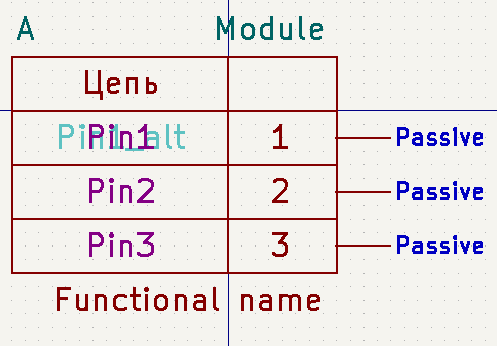
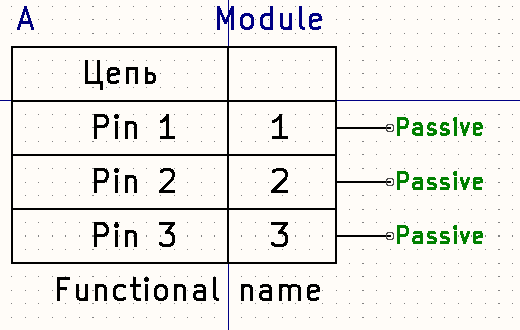
Update image. Fix position for pins (connetor and modules)

Changed region(s): [[0.0, 0.0, 1.0, 0.9394], [0.1509, 0.6667, 0.3622, 0.7576], [0.5131, 0.6667, 0.6036, 0.7576]]

diff --git a/tools/connector_gen.js b/tools/connector_gen.js
@@ -2,6 +2,7 @@ const pin_regex = new RegExp('^\[\\t\\s\]*(\\S+)\[\\t\\s\]+(\\S+)\[\\t\\s\]*(PI|
 const func_name_regex = new RegExp('^\[\\t\\s\]*>\[\\t\\s\]*(\\S+)$');
 const y_init = -2.54
 const y_step = -5.08
+const pin_length = 5.08
 const pin_types ={"PO": "power_out", "PI":"power_in", "IO": "bidirectional", "I": "input", "O": "output"}
 		
 /*!
@@ -69,8 +70,8 @@ function symbol_property_gen() {
 	if(document.getElementById("xp_ref").checked) ref_text="XP"
 	else ref_text="XS"
 	
-	sym_prop = [{prop: "Reference", value: ref_text, pos_x: -19.05, pos_y: 7.62, font: 2},
-	{prop: "Value", value: document.getElementById("symbol_name").value, pos_x: -2.54, pos_y: 7.62, font: 2},
+	sym_prop = [{prop: "Reference", value: ref_text, pos_x: -17.78, pos_y: 7.62, font: 2},
+	{prop: "Value", value: document.getElementById("symbol_name").value, pos_x: 2.54, pos_y: 7.62, font: 2},
 	{prop: "Footprint", value: "", pos_x: 20.32, pos_y: 7.62, font: 2},
 	{prop: "Datasheet", value: document.getElementById("symbol_ds").value, pos_x: -2.54, pos_y: 21.59, font: 1.27},
 	{prop: "ki_locked", value: "", pos_x: 0, pos_y: 0, font: 1.27},
@@ -137,24 +138,24 @@ function process(){
 					first_grp_pin[pin_name] = pos_y;
 				}else {
 					temp_y = first_grp_pin[pin_name].toFixed(3)
-					symbol_pins += `(pin  ${item["type"]} line (at 15.24 ${temp_y} 180) (length 5.08) hide`
-					symbol_pins += `(name "${item["label"]}" (effects (font (size 1.27 1.27)))) `
-					symbol_pins += `(number "${item["index"]}" (effects (font (size 1.27 1.27)))))\r\n`
+					symbol_pins += `(pin  ${item["type"]} line (at 15.1892 ${temp_y} 180) (length ${pin_length}) hide`
+					symbol_pins += `(name "${item["label"]}" (effects (font (size 2 2)))) `
+					symbol_pins += `(number "${item["index"]}" (effects (font (size 2 2)))))\r\n`
 					return;		
 				}
 			}
 			symbol_pins += `(text "${item["index"]}" (at 4.826 ${pos_y.toFixed(3)} 0)(effects (font (size 2 2))))\r\n`
-			symbol_pins += `(text "${item["label"]}" (at -8.89 ${pos_y.toFixed(3)} 0)(effects (font (size 2 2))))\r\n`
-			symbol_pins += `(pin ${item["type"]} line (at 15.24 ${pos_y.toFixed(3)} 180) (length 5.08) `
-			symbol_pins += `(name "${item["label"]}" (effects (font (size 1.27 1.27)))) `
-			symbol_pins += `(number "${item["index"]}" (effects (font (size 1.27 1.27)))))\r\n`		
+			symbol_pins += `(text "${item["label"]}" (at -10.16 ${pos_y.toFixed(3)} 0)(effects (font (size 2 2))))\r\n`
+			symbol_pins += `(pin ${item["type"]} line (at 15.1892 ${pos_y.toFixed(3)} 180) (length ${pin_length}) `
+			symbol_pins += `(name "${item["label"]}" (effects (font (size 2 2)))) `
+			symbol_pins += `(number "${item["index"]}" (effects (font (size 2 2)))))\r\n`		
 			pos_y += y_step;
 			show_pin_count++;				
 		});
 		
 		symbol_pins += "(text \"Цепь\" (at -10.16 2.54 0)(effects (font (size 2 2))))\r\n"
 		if(pins["fname"] != "") {
-			symbol_pins += `(text "${pins["fname"]}" (at -3.81 ${show_pin_count*y_step+y_init} 0)(effects (font (size 2.0066 2.0066))))\r\n`
+			symbol_pins += `(text "${pins["fname"]}" (at -5.08 ${show_pin_count*y_step+y_init} 0)(effects (font (size 2 2))))\r\n`
 		}
 		
 		/* Lines generation */
@@ -185,5 +186,6 @@ function save_file() {
 		a.href = window.URL.createObjectURL(new Blob([document.getElementById("output").value], {type: "text/plain"}));
 		a.download = `${document.getElementById("symbol_name").value}.kicad_sym`;
 		a.click();
+		alert("File is saved as ".concat(a.download))
 	}
 };

diff --git a/tools/module_gen.js b/tools/module_gen.js
@@ -2,6 +2,7 @@ const pin_regex = new RegExp('^\[\\t\\s\]*(\\S+)\[\\t\\s\]+(\\S+)\[\\t\\s\]*(PI|
 const func_name_regex = new RegExp('^\[\\t\\s\]*>\[\\t\\s\]*(\\S+)$');
 const y_init = -2.54
 const y_step = -5.08
+const pin_length = 5.08
 const pin_types ={"PO": "power_out", "PI":"power_in", "IO": "bidirectional", "I": "input", "O": "output"}
 		
 /*!
@@ -134,24 +135,24 @@ function process(){
 					first_grp_pin[pin_name] = pos_y;
 				}else {
 					temp_y = first_grp_pin[pin_name].toFixed(3)
-					symbol_pins += `(pin  ${item["type"]} line (at 15.24 ${temp_y} 180) (length 5.08) hide`
-					symbol_pins += `(name "${item["label"]}" (effects (font (size 1.27 1.27)))) `
-					symbol_pins += `(number "${item["index"]}" (effects (font (size 1.27 1.27)))))\r\n`
+					symbol_pins += `(pin  ${item["type"]} line (at 15.1892 ${temp_y} 180) (length ${pin_length}) hide`
+					symbol_pins += `(name "${item["label"]}" (effects (font (size 2 2)))) `
+					symbol_pins += `(number "${item["index"]}" (effects (font (size 2 2)))))\r\n`
 					return;		
 				}
 			}
 			symbol_pins += `(text "${item["index"]}" (at 4.826 ${pos_y.toFixed(3)} 0)(effects (font (size 2 2))))\r\n`
-			symbol_pins += `(text "${item["label"]}" (at -8.89 ${pos_y.toFixed(3)} 0)(effects (font (size 2 2))))\r\n`
-			symbol_pins += `(pin ${item["type"]} line (at 15.24 ${pos_y.toFixed(3)} 180) (length 5.08) `
-			symbol_pins += `(name "${item["label"]}" (effects (font (size 1.27 1.27)))) `
-			symbol_pins += `(number "${item["index"]}" (effects (font (size 1.27 1.27)))))\r\n`		
+			symbol_pins += `(text "${item["label"]}" (at -10.16 ${pos_y.toFixed(3)} 0)(effects (font (size 2 2))))\r\n`
+			symbol_pins += `(pin ${item["type"]} line (at 15.1892 ${pos_y.toFixed(3)} 180) (length ${pin_length}) `
+			symbol_pins += `(name "${item["label"]}" (effects (font (size 2 2)))) `
+			symbol_pins += `(number "${item["index"]}" (effects (font (size 2 2)))))\r\n`		
 			pos_y += y_step;
 			show_pin_count++;				
 		});
 		
 		symbol_pins += "(text \"Цепь\" (at -10.16 2.54 0)(effects (font (size 2 2))))\r\n"
 		if(pins["fname"] != "") {
-			symbol_pins += `(text "${pins["fname"]}" (at -3.81 ${show_pin_count*y_step+y_init} 0)(effects (font (size 2.0066 2.0066))))\r\n`
+			symbol_pins += `(text "${pins["fname"]}" (at -5.08 ${show_pin_count*y_step+y_init} 0)(effects (font (size 2 2))))\r\n`
 		}
 		
 		/* Lines generation */
@@ -171,6 +172,7 @@ function process(){
 	//location.href = "#popup_result";
 };
 
+
 /*!
  *  Save .kicad_sim file
  */
@@ -182,5 +184,6 @@ function save_file() {
 		a.href = window.URL.createObjectURL(new Blob([document.getElementById("output").value], {type: "text/plain"}));
 		a.download = `${document.getElementById("symbol_name").value}.kicad_sym`;
 		a.click();
+		alert("File is saved as ".concat(a.download))
 	}
 };

diff --git a/tools/ic_generator.js b/tools/ic_generator.js
@@ -205,5 +205,6 @@ function save_file() {
 		a.href = window.URL.createObjectURL(new Blob([document.getElementById("output").value], {type: "text/plain"}));
 		a.download = `${document.getElementById("symbol_name").value}.kicad_sym`;
 		a.click();
+		alert("File is saved as ".concat(a.download))
 	}
 };

diff --git a/tools/pin_grouping.js b/tools/pin_grouping.js
@@ -86,5 +86,6 @@ function save_file() {
 		a.href = window.URL.createObjectURL(new Blob([document.getElementById("output").value], {type: "text/plain"}));
 		a.download = `pin_sorted.txt`;
 		a.click();
+		alert("File is saved as ".concat(a.download))
 	}
 };
